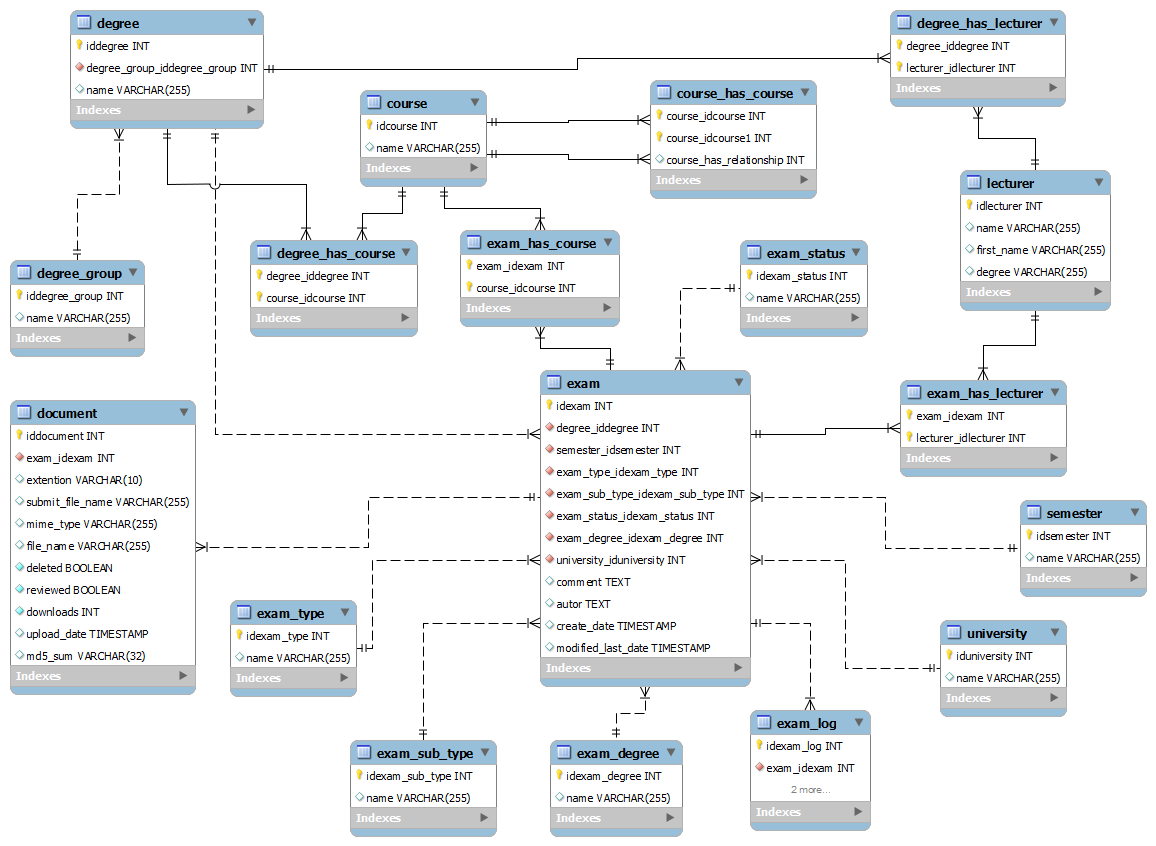
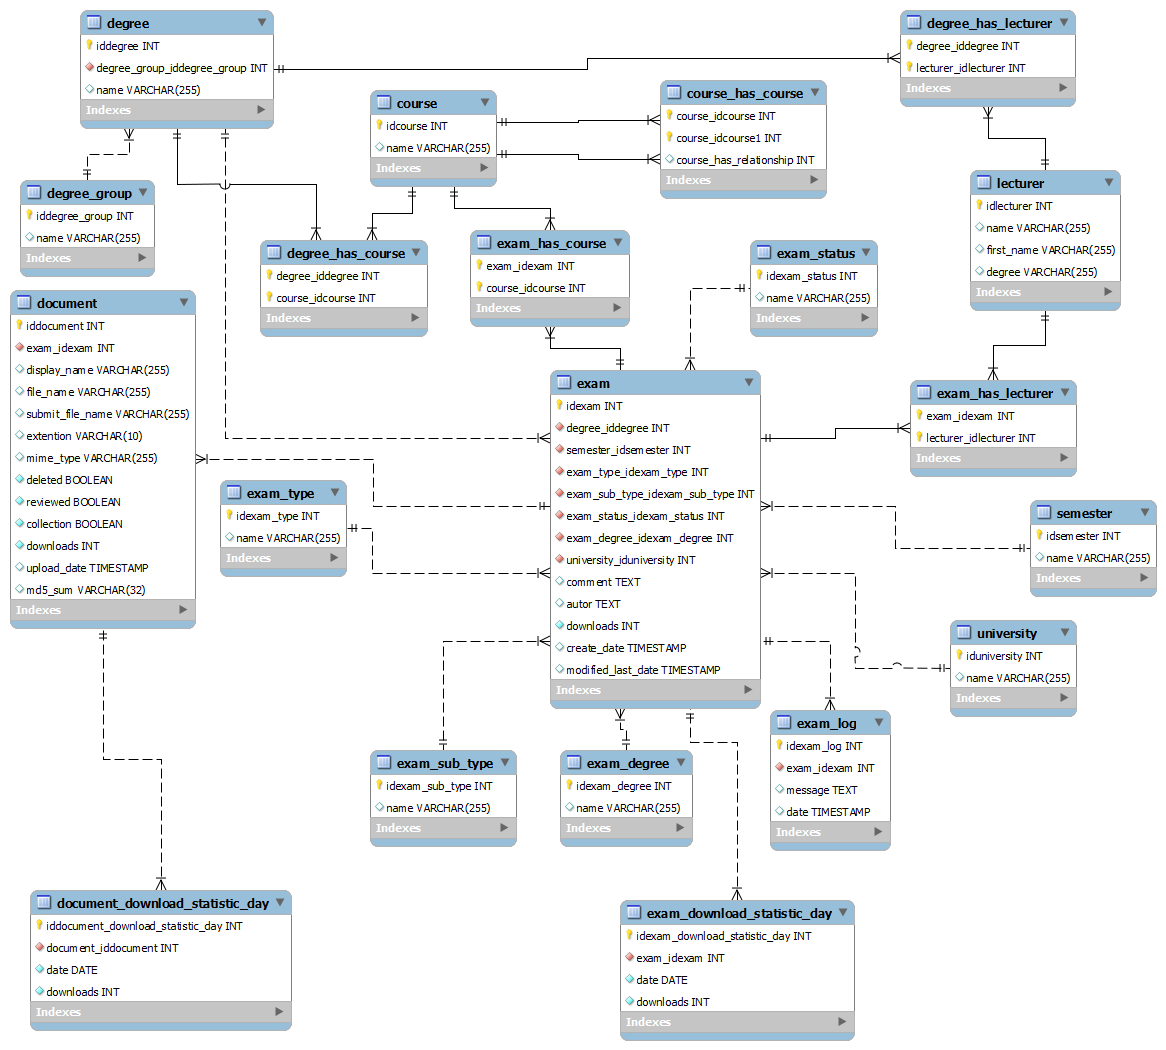
add statistic tables

diff --git a/application/models/ExamMapper.php b/application/models/ExamMapper.php
@@ -231,11 +231,6 @@ class Application_Model_ExamMapper
 	{
 		return $this->fetch("-1", "-1", "-1", "-1", "-1", array(Application_Model_ExamStatus::Unchecked), false);
 	}
-
-	public function fetchPublic(){
-		return $this->fetch("-1", "-1", "-1", "-1", "-1", array(Application_Model_ExamStatus::PublicExam, Application_Model_ExamStatus::Reported), false);
-	}
-	
 	
 	public function fetchReported()
 	{
